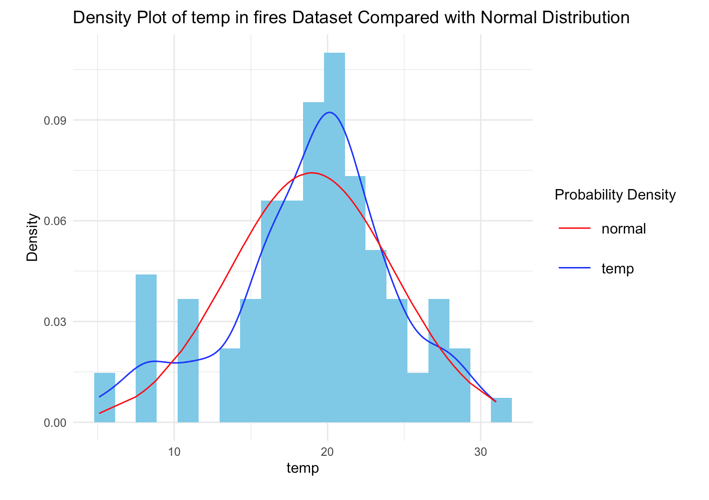
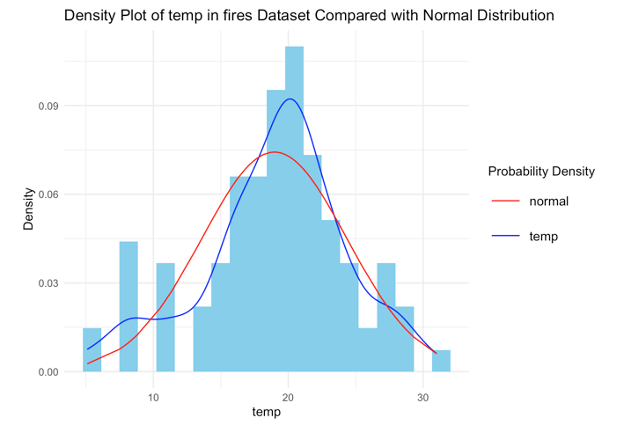
Updated index page

diff --git a/index.html b/index.html
@@ -39,7 +39,7 @@
 
         img {
             max-width: 100%;
-            height: 400;
+            height: 20;
             border-radius: 8px;
             margin-bottom: 10px;
         }
